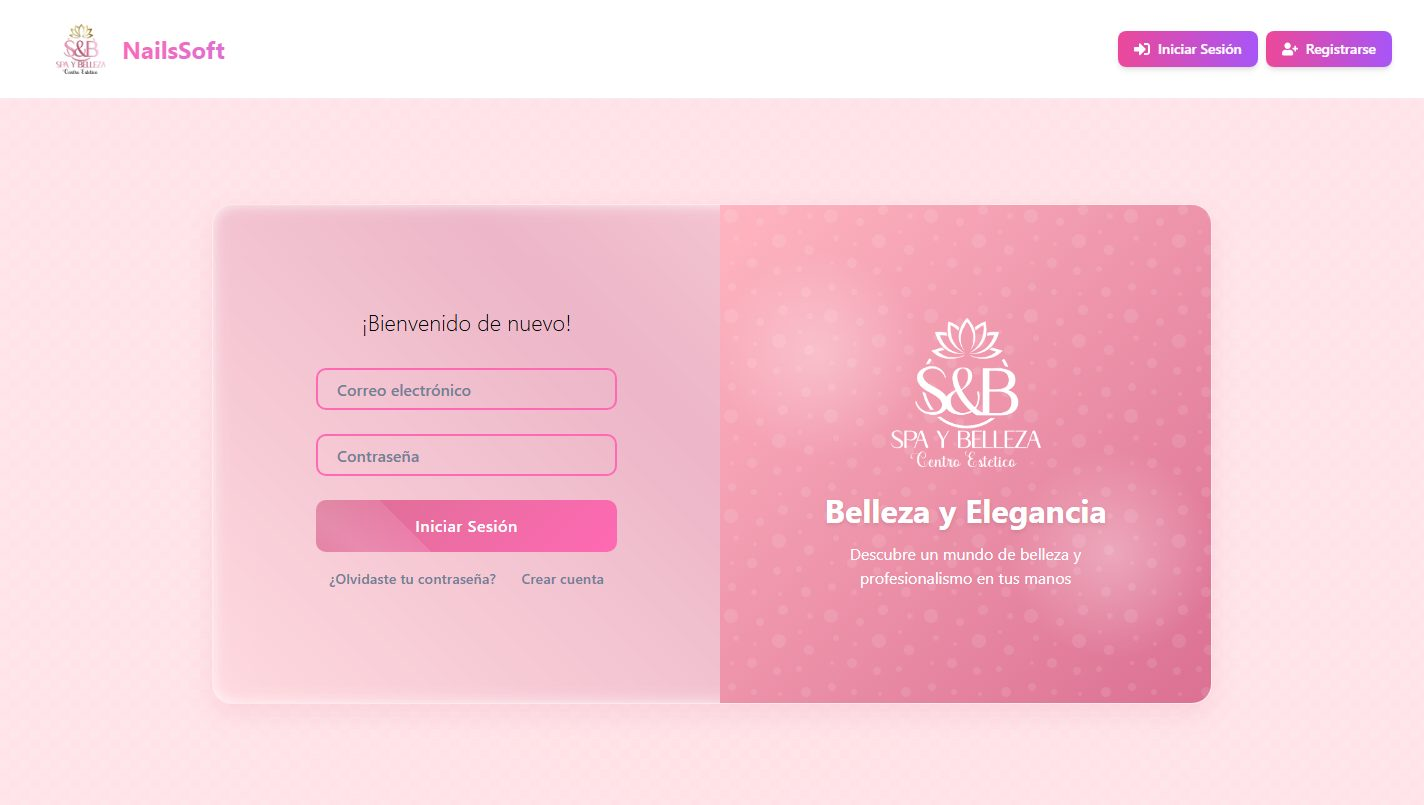
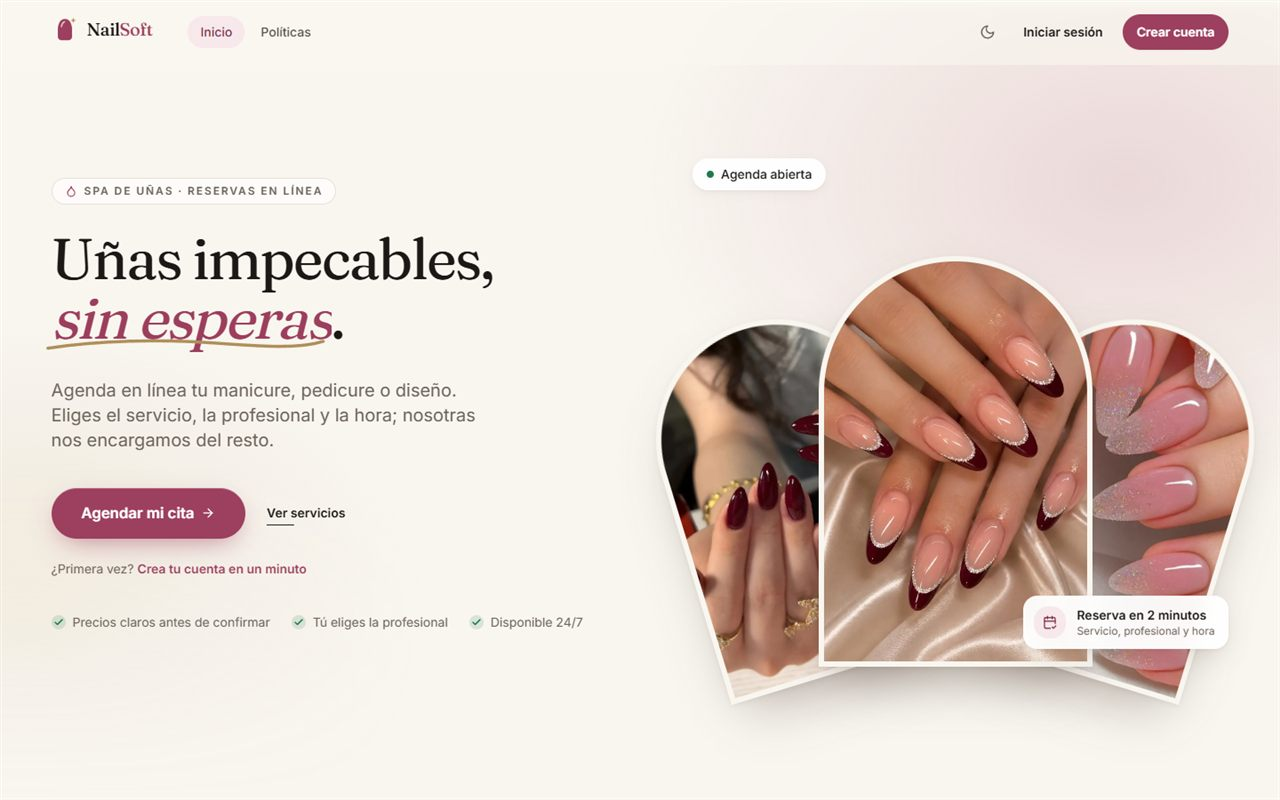
Actualizar NailSoft con el rediseño: nueva captura, descripción, demo y APK

diff --git a/src/components/Projects.jsx b/src/components/Projects.jsx
@@ -1,4 +1,4 @@
-import { ArrowUpRight, Bot, Code2, Lock, Monitor, ScanText, Sparkles } from "lucide-react";
+import { ArrowUpRight, Bot, Code2, Globe, Lock, Monitor, ScanText, Smartphone, Sparkles } from "lucide-react";
 import { proyectos } from "../data/portfolio";
 import { AnimacionOCR, AnimacionRPA } from "./ProjectAnimations";
 import { GithubIcon, publico, Reveal, Section, TiltCard } from "./ui";
@@ -104,9 +104,21 @@ function Tarjeta({ p, i, destacada = false }) {
               <Lock className="size-3.5" /> Código privado de la empresa
             </span>
           ) : (
-            <a href={p.repo} target="_blank" rel="noopener" className="inline-flex items-center gap-1.5 font-semibold underline-offset-4 hover:underline">
-              <GithubIcon className="size-4" /> Ver en GitHub
-            </a>
+            <div className="flex flex-wrap gap-x-5 gap-y-2">
+              {p.demo && (
+                <a href={p.demo} target="_blank" rel="noopener" className="inline-flex items-center gap-1.5 font-semibold underline-offset-4 hover:underline">
+                  <Globe className="size-4" /> Ver demo
+                </a>
+              )}
+              <a href={p.repo} target="_blank" rel="noopener" className="inline-flex items-center gap-1.5 font-semibold underline-offset-4 hover:underline">
+                <GithubIcon className="size-4" /> Ver en GitHub
+              </a>
+              {p.apk && (
+                <a href={p.apk} target="_blank" rel="noopener" className="inline-flex items-center gap-1.5 font-semibold underline-offset-4 hover:underline">
+                  <Smartphone className="size-4" /> App Android
+                </a>
+              )}
+            </div>
           )}
         </div>
       </div>

diff --git a/src/data/portfolio.js b/src/data/portfolio.js
@@ -123,10 +123,12 @@ export const proyectos = [
     color: "#f472b6",
     categoria: "Académico",
     descripcion:
-      "Aplicación web del SENA para administrar los servicios de un spa de uñas, con interfaz en React, servidor en Node.js y base de datos MongoDB.",
-    stack: ["React", "Node.js", "MongoDB"],
+      "Rediseño completo del proyecto de mi equipo del SENA: reservas en línea para un spa de uñas, panel de ventas e inventario y app Android para las estilistas. Cerré huecos de seguridad, hice un sistema de diseño propio y agregué más de 240 pruebas automáticas con CI.",
+    stack: ["React", "Node.js", "MongoDB", "Flutter", "Jest", "GitHub Actions"],
     imagen: "proyectos/nailsoft.jpg",
-    repo: "https://github.com/IHomoSapienI/ProyectoNailSoft",
+    repo: "https://github.com/FrankPater15/NailSoftMejorado",
+    demo: "https://nailsoft-spa.web.app",
+    apk: "https://github.com/FrankPater15/NailSoftMejorado/releases/latest",
   },
   {
     nombre: "Este portafolio",
